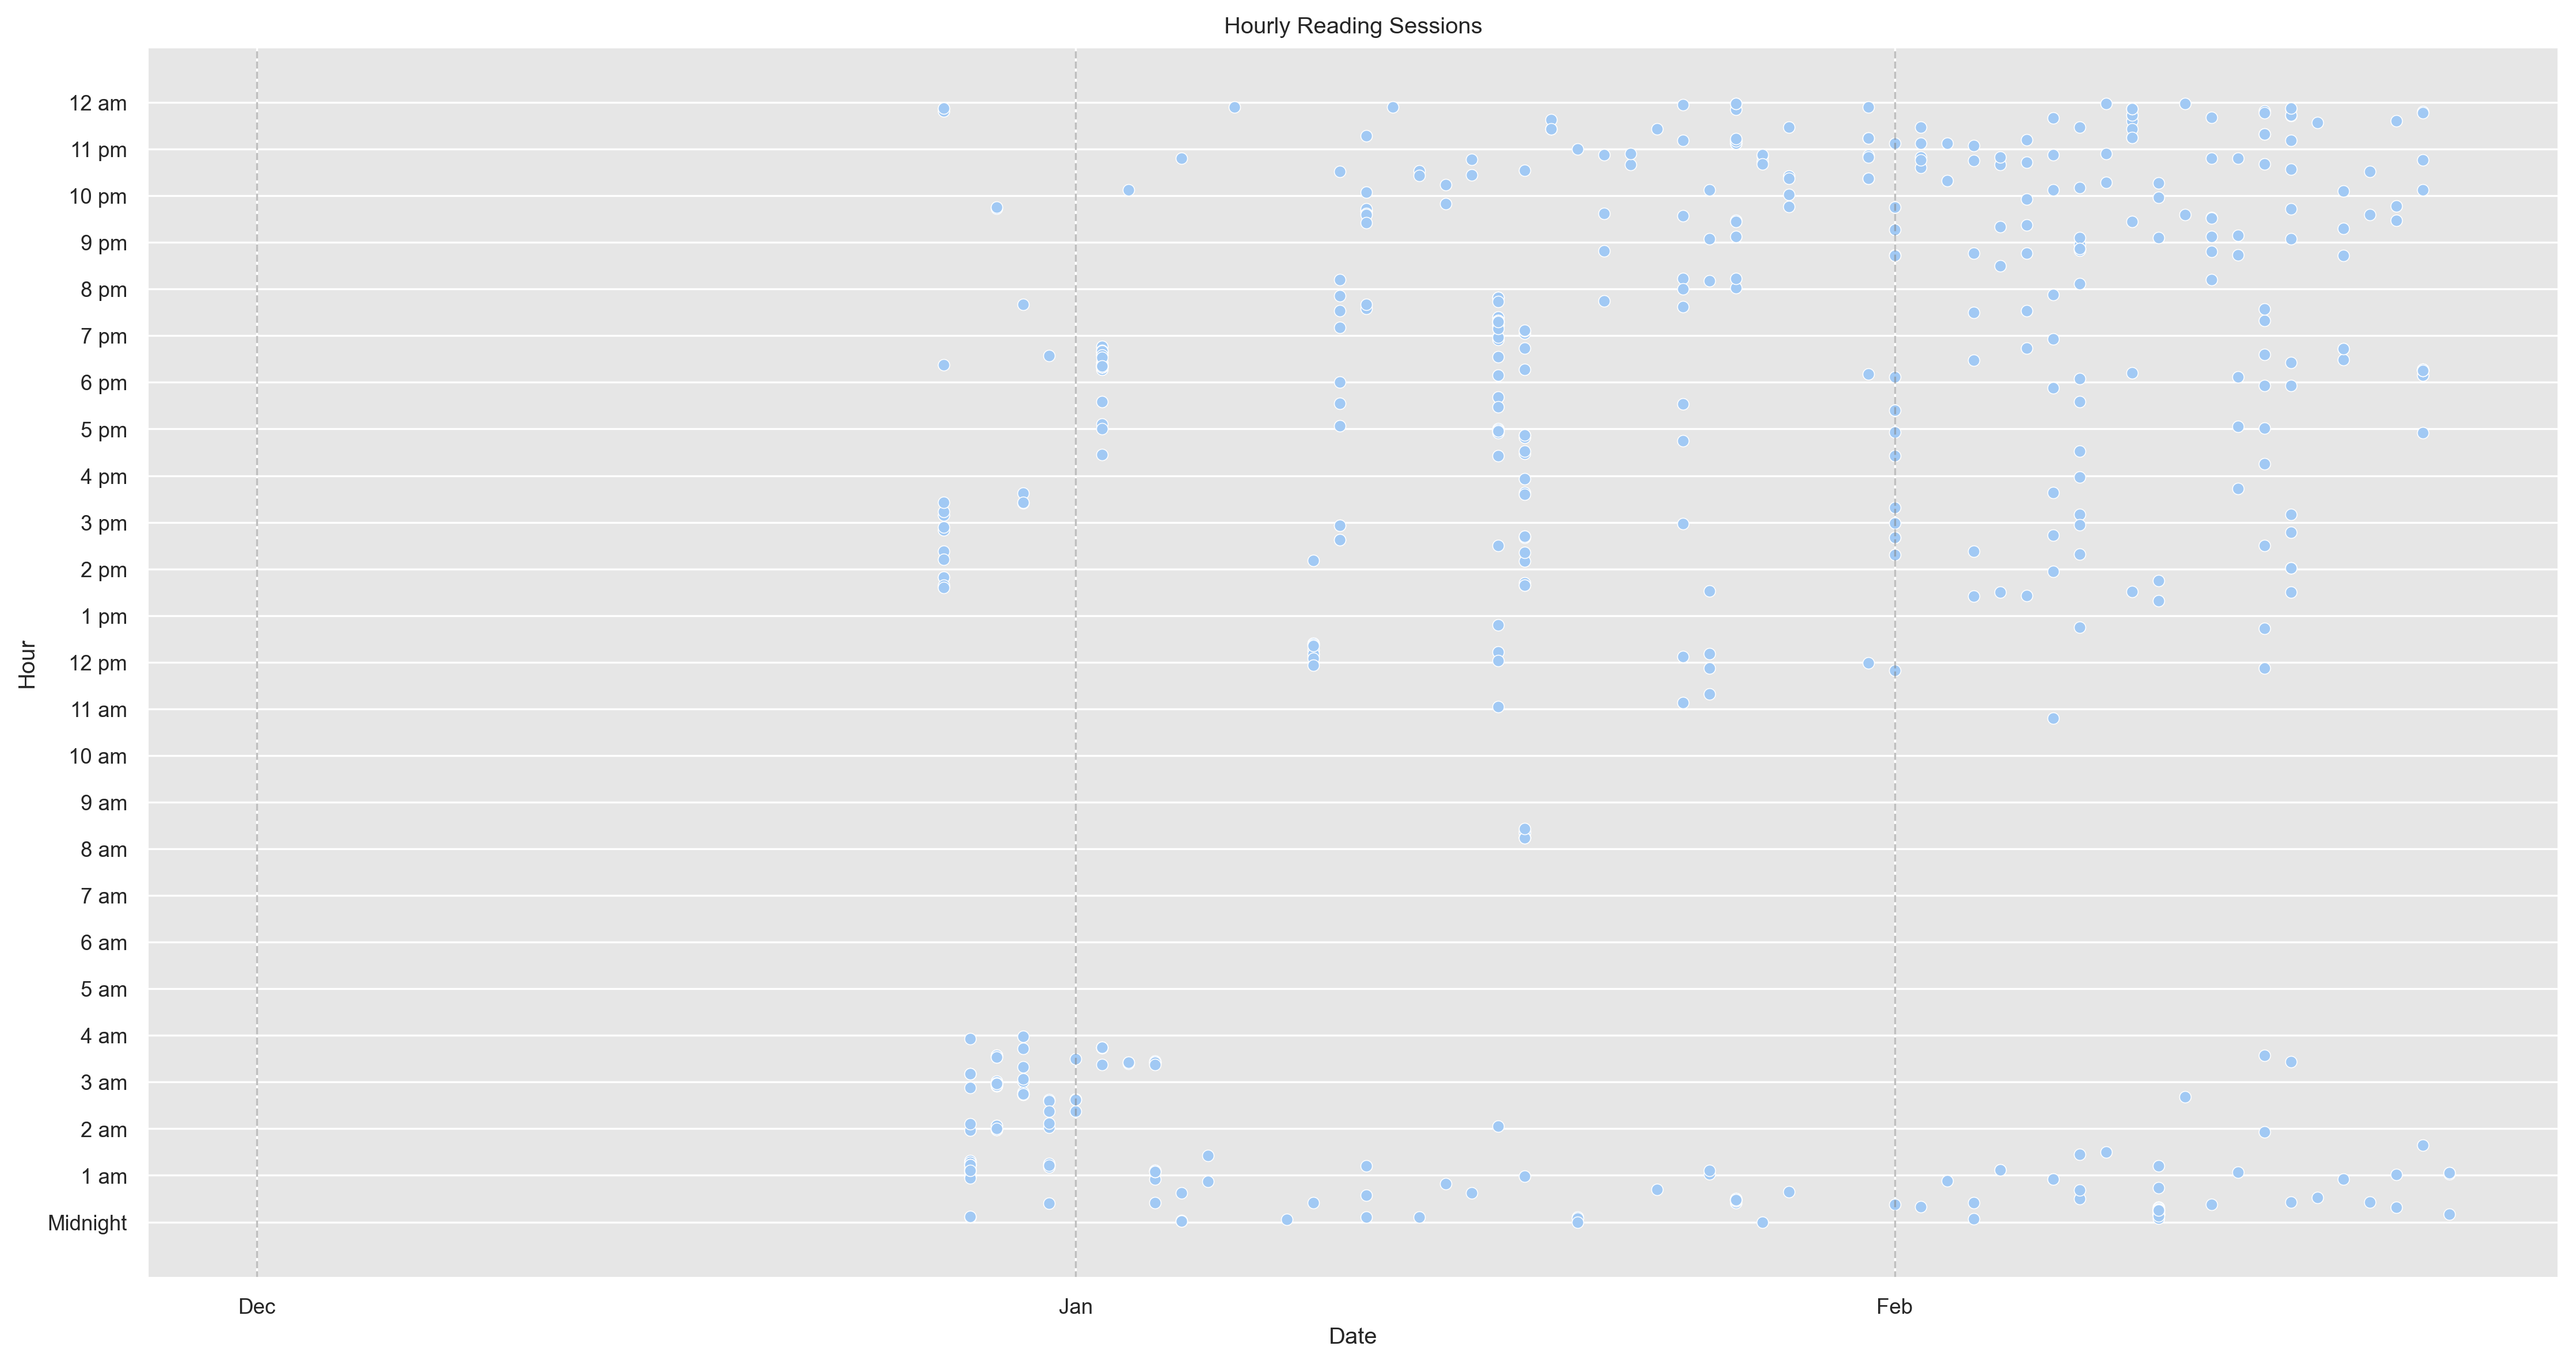
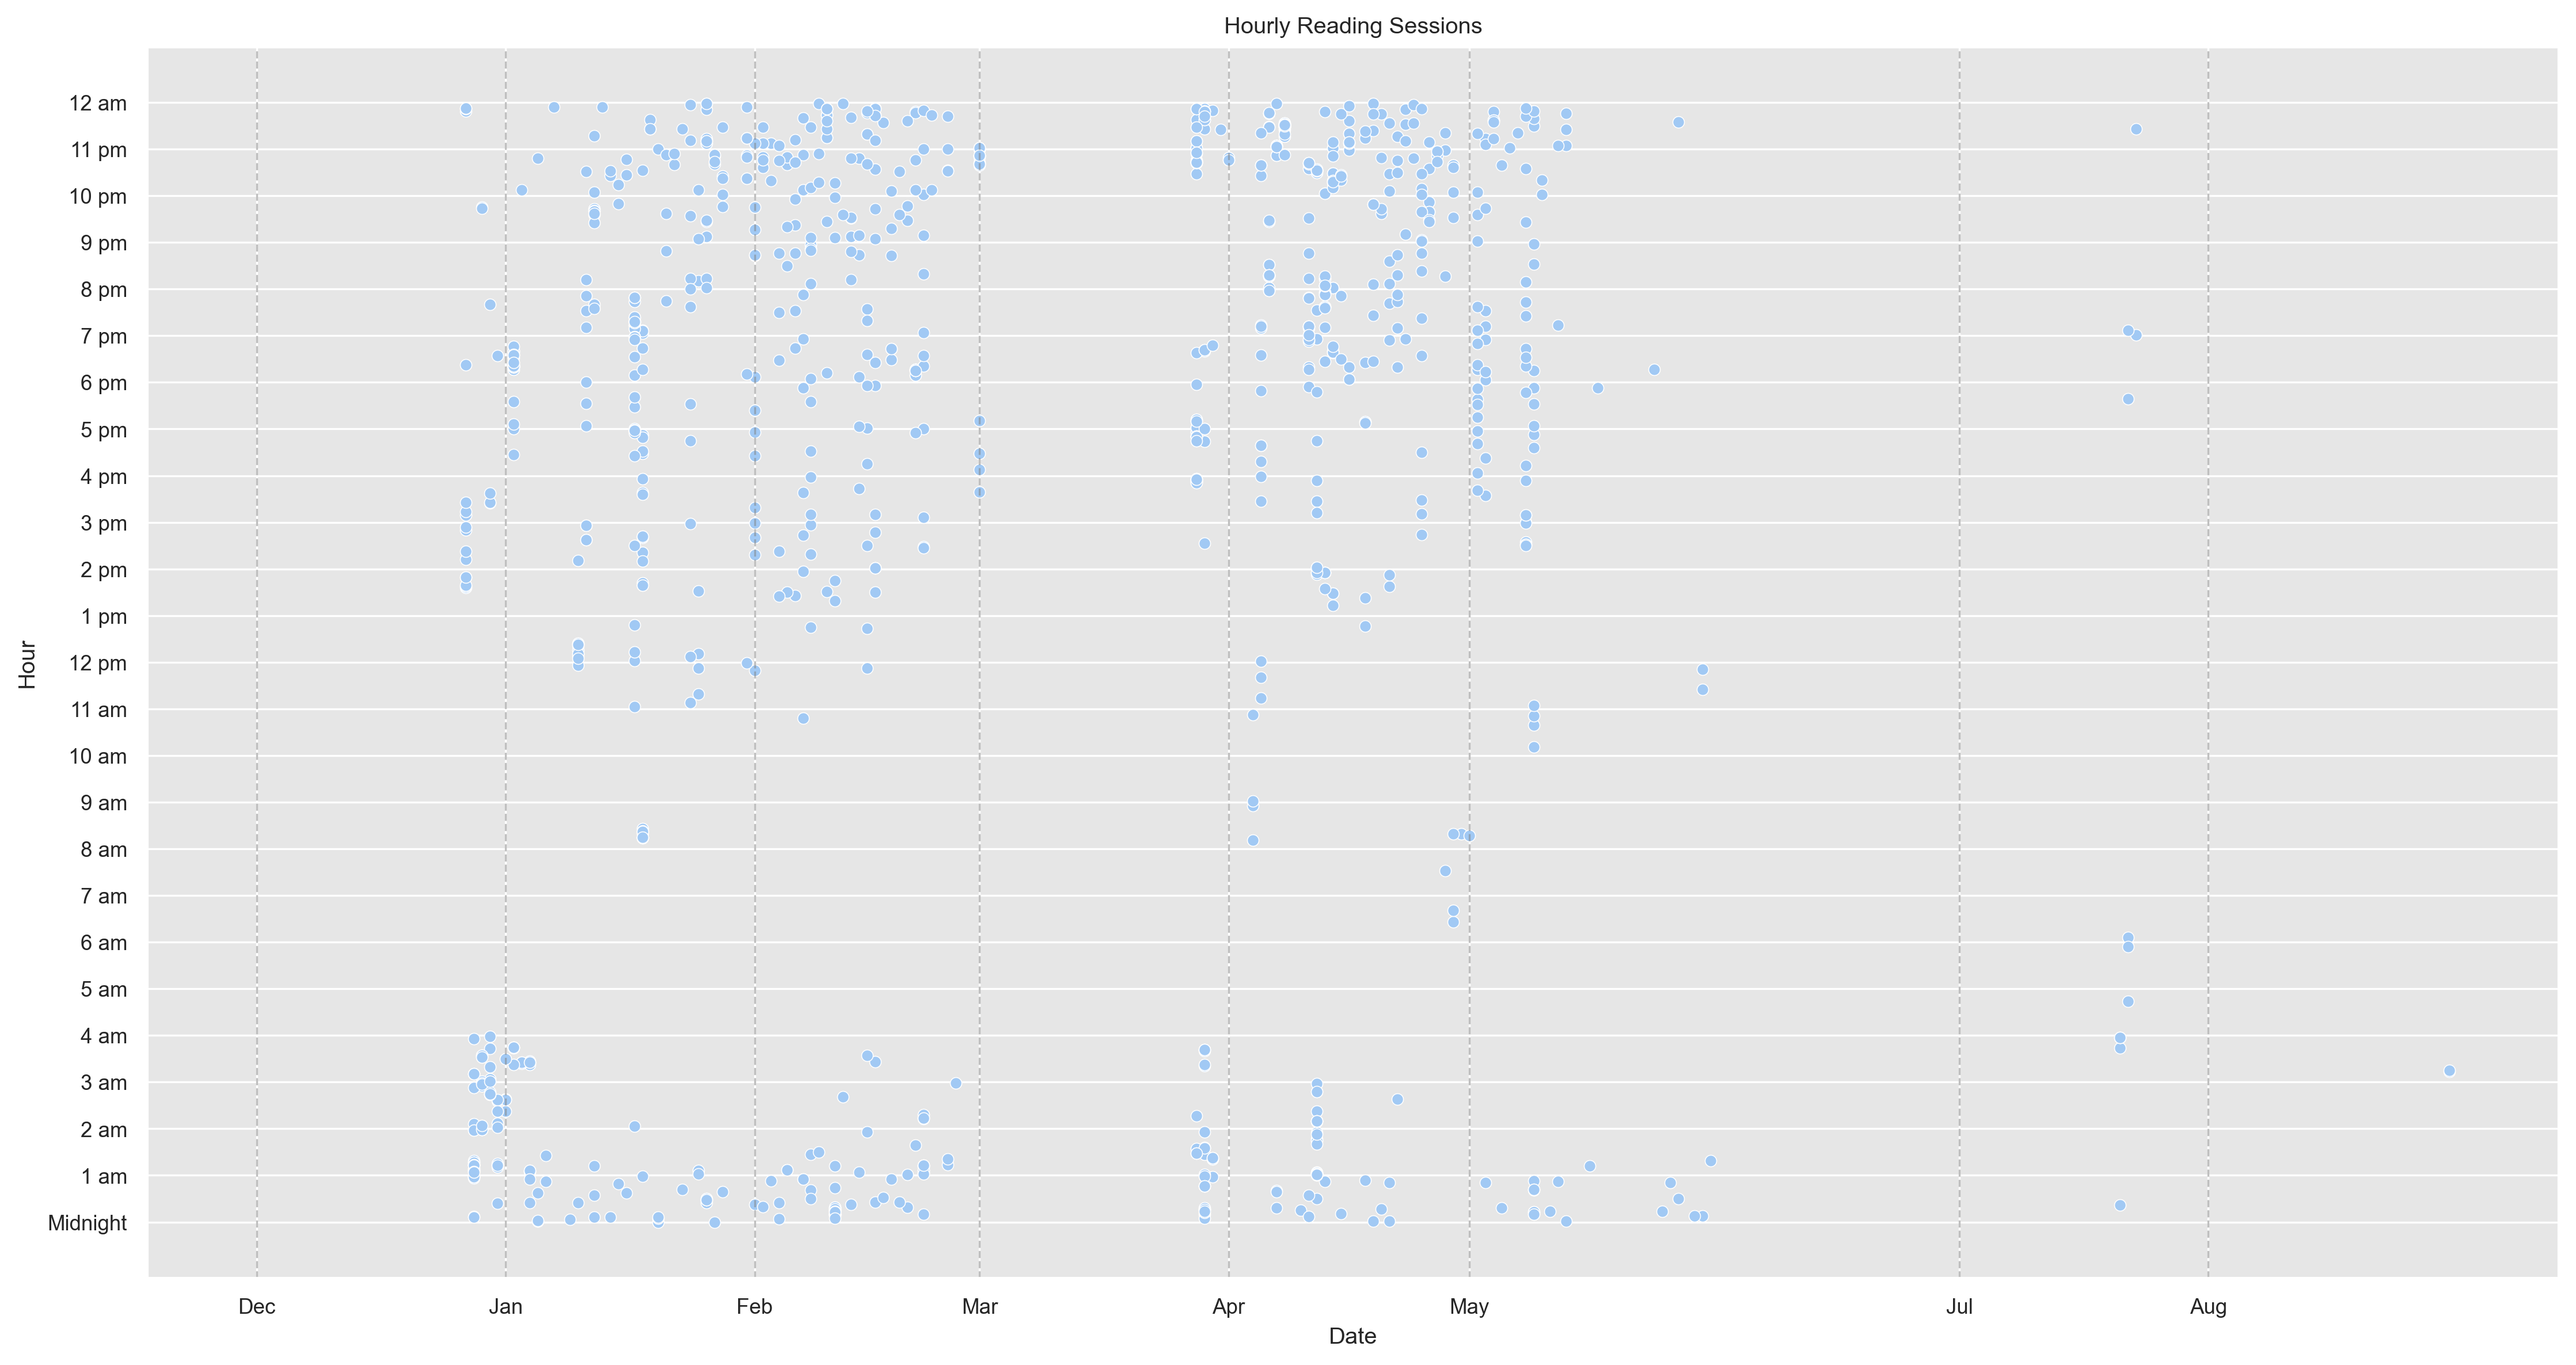
updated current datasets

diff --git a/reading-stats.py b/reading-stats.py
@@ -195,7 +195,7 @@ def sessionCount():
     num_of_days = len(session['start_date'].unique())
     num_of_sessions = len(session)
 
-    print(f'You picked up your kindle for {num_of_days} separate days and opened it {num_of_sessions} different times.')
+    print(f'You picked up your kindle for {num_of_days} separate days and opened it {num_of_sessions:,} different times.')
 
 
 def faveAuthors():
